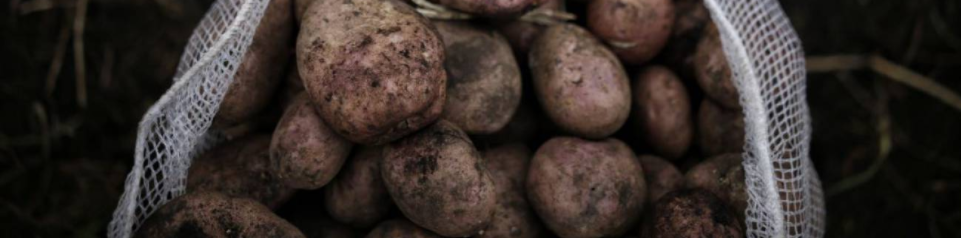
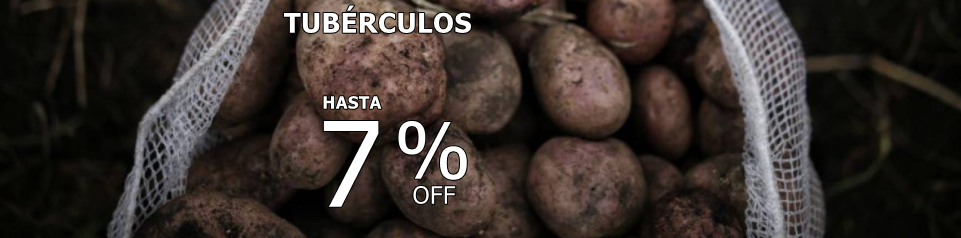
Vista ofertas
se agregaron imagenes

Changed region(s): [[0.3122, 0.5, 0.4995, 0.8824], [0.281, 0.0294, 0.4995, 0.1471], [0.3122, 0.3824, 0.4058, 0.4706]]

diff --git a/CaucaAgroSostenibleApp/src/app/cliente/ofertas/ofertas.component.html b/CaucaAgroSostenibleApp/src/app/cliente/ofertas/ofertas.component.html
@@ -10,13 +10,13 @@
     <!-- The slideshow -->
     <div class="carousel-inner">
       <div class="carousel-item active">
-        <img src="../../../assets/Ofertas/Papa2.PNG" alt="Los Angeles">
+        <img src="../../../assets/Ofertas/frutas2.jpg" alt="Ofertas frutas">
       </div>
       <div class="carousel-item">
-        <img src="../../../assets/Productos/.jpg" alt="Chicago">
+        <img src="../../../assets/Ofertas/offcarnes.jpg" alt="Chicago">
       </div>
       <div class="carousel-item">
-        <img src="../../../assets/Productos/.jpeg" alt="New York">
+        <img src="../../../assets/Ofertas/Papa2.PNG" alt="Ofertas Tuberculos">
       </div>
     </div>
   
